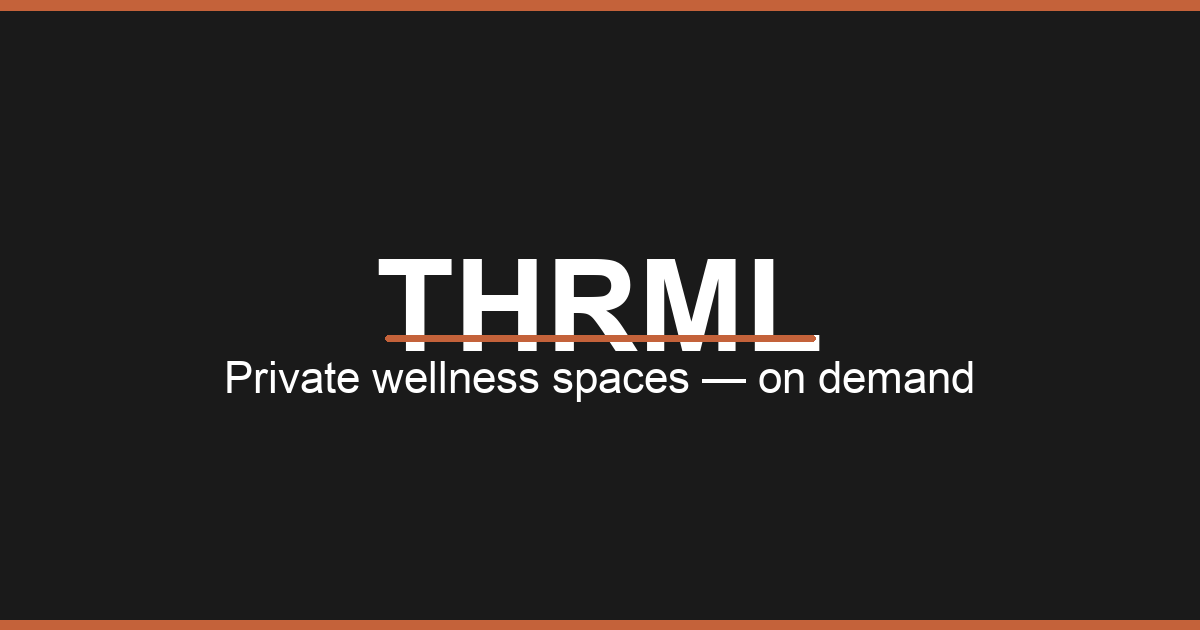
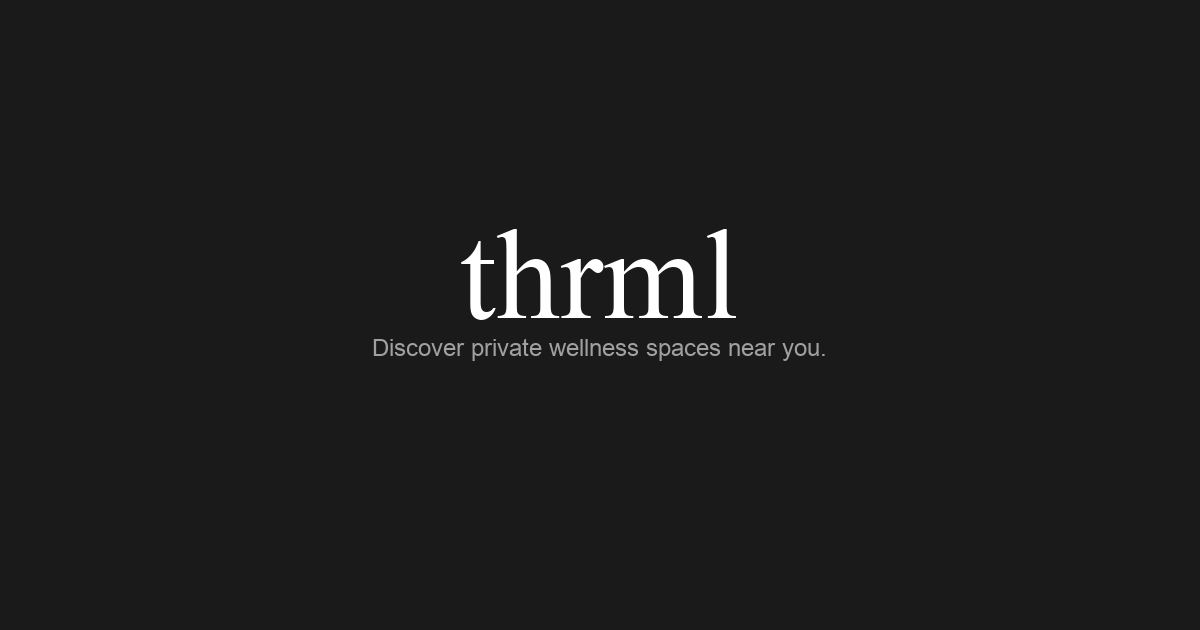
social sharing image v1

Changed region(s): [[0.185, 0.3619, 0.8325, 0.6333], [0.0, 0.9651, 1.0, 1.0], [0.0, 0.0, 1.0, 0.0302]]

diff --git a/src/app/opengraph-image.tsx b/src/app/opengraph-image.tsx
@@ -1,0 +1,54 @@
+import { ImageResponse } from "next/og";
+
+export const runtime = "edge";
+export const alt = "Thrml — Private Wellness Spaces";
+export const size = { width: 1200, height: 630 };
+export const contentType = "image/png";
+
+export default async function Image() {
+  return new ImageResponse(
+    (
+      <div
+        style={{
+          width: "1200px",
+          height: "630px",
+          backgroundColor: "#1a1a1a",
+          display: "flex",
+          flexDirection: "column",
+          alignItems: "center",
+          justifyContent: "center",
+          gap: "16px",
+          transform: "translateY(-24px)",
+        }}
+      >
+        <div
+          style={{
+            color: "#ffffff",
+            fontSize: "120px",
+            fontWeight: "400",
+            letterSpacing: "0.01em",
+            textTransform: "lowercase",
+            fontFamily: '"DM Serif Display", Georgia, serif',
+            lineHeight: 1,
+          }}
+        >
+          thrml
+        </div>
+
+        <div
+          style={{
+            color: "#a0a0a0",
+            fontSize: "24px",
+            fontWeight: "400",
+            letterSpacing: "0.01em",
+            fontFamily: '"DM Sans", Arial, sans-serif',
+            lineHeight: 1.3,
+          }}
+        >
+          Discover private wellness spaces near you.
+        </div>
+      </div>
+    ),
+    { ...size }
+  );
+}

diff --git a/src/app/twitter-image.tsx b/src/app/twitter-image.tsx
@@ -1,0 +1,54 @@
+import { ImageResponse } from "next/og";
+
+export const runtime = "edge";
+export const alt = "Thrml — Private Wellness Spaces";
+export const size = { width: 1200, height: 630 };
+export const contentType = "image/png";
+
+export default async function Image() {
+  return new ImageResponse(
+    (
+      <div
+        style={{
+          width: "1200px",
+          height: "630px",
+          backgroundColor: "#1a1a1a",
+          display: "flex",
+          flexDirection: "column",
+          alignItems: "center",
+          justifyContent: "center",
+          gap: "16px",
+          transform: "translateY(-24px)",
+        }}
+      >
+        <div
+          style={{
+            color: "#ffffff",
+            fontSize: "120px",
+            fontWeight: "400",
+            letterSpacing: "0.01em",
+            textTransform: "lowercase",
+            fontFamily: '"DM Serif Display", Georgia, serif',
+            lineHeight: 1,
+          }}
+        >
+          thrml
+        </div>
+
+        <div
+          style={{
+            color: "#a0a0a0",
+            fontSize: "24px",
+            fontWeight: "400",
+            letterSpacing: "0.01em",
+            fontFamily: '"DM Sans", Arial, sans-serif',
+            lineHeight: 1.3,
+          }}
+        >
+          Discover private wellness spaces near you.
+        </div>
+      </div>
+    ),
+    { ...size }
+  );
+}

diff --git a/src/app/layout.tsx b/src/app/layout.tsx
@@ -48,7 +48,7 @@ export const metadata: Metadata = {
     url: "https://usethrml.com",
     images: [
       {
-        url: "/og-image.png",
+        url: "/opengraph-image",
         width: 1200,
         height: 630,
         alt: "thrml — Private Wellness Spaces",
@@ -61,7 +61,7 @@ export const metadata: Metadata = {
     title: "thrml — Book Private Saunas, Cold Plunges & Wellness Spaces",
     description:
       "Book private saunas, cold plunges, float tanks and more — hosted by people in your city.",
-    images: ["/og-image.png"],
+    images: ["/opengraph-image"],
   },
   robots: {
     index: true,
@@ -89,7 +89,7 @@ export default function RootLayout({
         className={`${dmSans.variable} ${dmSerifDisplay.variable} ${geistMono.variable} antialiased`}
       >
         {children}
-        <GoogleAnalytics gaId="G-L20J7S2M51" />
+        <GoogleAnalytics gaId={process.env.NEXT_PUBLIC_GA_MEASUREMENT_ID!} />
       </body>
     </html>
   );
